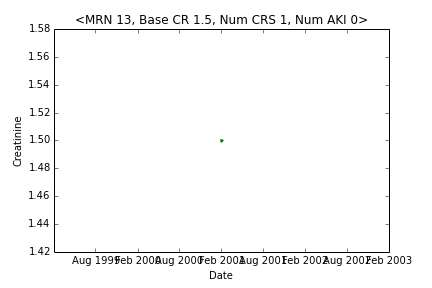
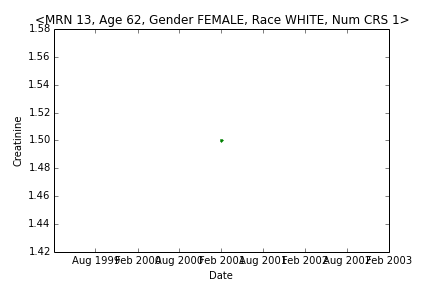
Add demographics and eGFR

Changed region(s): [[0.0903, 0.0312, 0.963, 0.0938]]

diff --git a/AKIPredictor.py b/AKIPredictor.py
@@ -1,69 +1,15 @@
 # -*- coding: utf-8 -*-
 """@author: Sami Safadi"""
 
-from pandas import Series, DataFrame
+from patient import Patient
 import matplotlib.pyplot as plt
 import pandas as pd
 import numpy as np
 import glob
 
+demDict = pd.DataFrame()
 ptDict = {} # Dictionary containing all lab values
 Patients = {} # Dictonary, keys are MRN, values are Patient objects
-
-class Patient(object):
-    def __init__(self, mrn: int, data: dict = dict()):
-        self.mrn = mrn
-        self.data = DataFrame(Series(data), columns=['value'])
-        self.data.index = pd.to_datetime(self.data.index)
-        self.crs = self.data.value
-        self.baseCr = self.__calcBaseCr__()
-        self.data['order'] = range(len(data))
-        self.data['slope'] = self.__calcSlopes__()
-        self.data['peak'] = self.__calcPeaks__()
-        self.data['aki'] = self.__calcAKI__()
-        self.aki = self.data.value[self.data.aki]
- 
-    def __str__(self): 
-        temp = "<MRN {}, Base CR {}, Num CRS {}, Num AKI {}>"\
-            .format(self.mrn, self.baseCr, len(self.crs), sum(self.data.aki))
-        return temp
-
-    def __repr__(self): return self.__str__()
-    
-    def __calcBaseCr__(self):
-        return np.percentile(self.crs, 25)
-    
-    def __calcSlopes__(self):
-        slopes = []
-        for i in range(len(self.crs)-1):
-            x1, x2 = self.data.order[i], self.data.order[i+1]
-            y1, y2 = self.data.value[i], self.data.value[i+1]
-            slopes.append((y2-y1)/(x2-x1))
-        # assign slope after last point to the preceding slope
-        if len(slopes) == 0: slopes.append(0) 
-        else: slopes.append(slopes[len(slopes) - 1])
-        return slopes
-        
-    def __calcPeaks__(self):
-        # first point is a peak if following slope is negative
-        peaks = [self.data.slope[0] <= 0] 
-        for i in range(1, len(self.crs)):
-            if self.data.slope[i-1] > 0 and self.data.slope[i] <= 0: 
-                peaks.append(True)
-            else: peaks.append(False)
-        return peaks
-    
-    def __calcAKI__(self):
-        return (self.data.value > self.baseCr * 1.5) & self.data.peak
-                               
-    def plot(self):
-        plt.hlines(self.baseCr, self.data.index.min(), self.data.index.max(), linestyles='dotted')
-        plt.plot(self.data.index, self.data.value)        
-        plt.plot(self.data.index, self.data.value, 'g.')
-        plt.plot(self.data.index[self.data.aki], self.data.value[self.data.aki], 'ro')
-        plt.title(str(self))
-        plt.xlabel("Date")
-        plt.ylabel("Creatinine")
         
 def getNumPatients():
     return len(Patients)
@@ -71,7 +17,7 @@ def getNumPatients():
 def getNumCrs():
     return sum([Patients[p].crs.size for p in Patients])
      
-def createPtDict(df: DataFrame):
+def createPtDict(df: pd.DataFrame):
     global ptDict 
     uniqueMRN = np.unique(df.ix[:, 0])
     for i in uniqueMRN: 
@@ -89,7 +35,13 @@ def createPts(patients: dict):
     for key in patients:
         crs = patients[key]
         mrn = key
-        if len(crs) > 0: Patients[mrn] = Patient(mrn=mrn, data=crs)
+        age, gender, race = 0, 0, 0
+        if any(demDict.MRN == 20):
+            index = demDict.index[demDict.MRN == key][0]
+            age = demDict.Age[index]
+            gender = demDict.Gender[index]
+            race = demDict.Race[index]
+        if len(crs) > 0: Patients[mrn] = Patient(mrn, crs, age, gender, race)
 
 def getPlots(keys: list, savetofile = False):
     global Patients
@@ -114,23 +66,28 @@ def getAKIDates(keys: list, savetofile = False):
 
 def getNumAKI(keys: list, savetofile = False):
     global Patients
-    mrn, aki, baseCr = [], [], []
+    mrn, aki, baseCr, egfr = [], [], [], []
     for key in keys:
         mrn.append(Patients[key].mrn)
         aki.append(Patients[key].aki.size)
         baseCr.append(Patients[key].baseCr)
-    di = {'MRN': mrn, 'baseCr': baseCr, 'numAKI': aki}
-    df = DataFrame(di)
+        egfr.append(Patients[key].egfr)
+    di = {'MRN': mrn, 'baseCr': baseCr, 'numAKI': aki, 'eGFR' : egfr}
+    df = pd.DataFrame(di)
     df['anyAKI'] = df.numAKI > 0
     outputfile = "Output/aki.csv"
-    if savetofile: df.to_csv(outputfile)
+    if savetofile: df.to_csv(outputfile, index = False)
     else: print(df)
-    
-def read(files:[str]):
-    global Patients
-    for file in files: createPtDict(pd.read_csv(file))
-    createPts(ptDict)
 
+def readDemographics(file: str):
+    global demDict
+    demDict = pd.read_csv(file)
+        
+def readLabs(files:[str]):
+    for file in files: 
+        createPtDict(pd.read_csv(file))
+    createPts(ptDict)
+    
 def write():
     global Patients
     getNumAKI(Patients.keys(), savetofile = True)
@@ -138,9 +95,13 @@ def write():
     getPlots(Patients.keys(), savetofile = True)
     
 if __name__ == "__main__":
-    files = glob.glob("Input/*.csv")
-    print("The following files are proccessed: ", files)
-    read(files)
+    demographicsFile = "Input/Demographics.csv"
+    readDemographics(demographicsFile)
+    
+    labFiles = glob.glob("Input/Labs*.csv")
+    print("The following files are proccessed: ", labFiles)
+    readLabs(labFiles)
+    
     message = "Processed {} patients, and {} laboratory values"\
         .format(getNumPatients(), getNumCrs(),)
     print(message)

diff --git a/patient.py b/patient.py
@@ -1,0 +1,70 @@
+# -*- coding: utf-8 -*-
+"""@author: Sami Safadi"""
+
+from eGFR import ckdepi
+from pandas import Series, DataFrame
+import matplotlib.pyplot as plt
+import pandas as pd
+import numpy as np
+
+class Patient(object):
+    def __init__(self, mrn, data = {}, age = 0, gender = 0, race = 0):
+        self.mrn = mrn
+        self.data = DataFrame(Series(data), columns=['value'])
+        self.data.index = pd.to_datetime(self.data.index)
+        self.crs = self.data.value
+        self.age = age
+        self.gender = gender
+        self.race = race
+        if self.crs.size > 0: self.initialize()
+        
+    def initialize(self):
+        self.baseCr = self.__calcBaseCr__()
+        self.egfr = ckdepi(self.baseCr, self.age, self.gender, self.race)
+        self.data['order'] = range(self.crs.size)
+        self.data['slope'] = self.__calcSlopes__()
+        self.data['peak'] = self.__calcPeaks__()
+        self.data['aki'] = self.__calcAKI__()
+        self.aki = self.data.value[self.data.aki]
+        
+    def __str__(self): 
+        temp = "<MRN {}, Age {}, Gender {}, Race {}, Num CRS {}>"\
+            .format(self.mrn, self.age, self.gender, self.race, self.crs.size)
+        return temp
+
+    def __repr__(self): return self.__str__()
+    
+    def __calcBaseCr__(self):
+        return np.percentile(self.crs, 25)
+    
+    def __calcSlopes__(self):
+        slopes = []
+        for i in range(len(self.crs)-1):
+            x1, x2 = self.data.order[i], self.data.order[i+1]
+            y1, y2 = self.data.value[i], self.data.value[i+1]
+            slopes.append((y2-y1)/(x2-x1))
+        # assign slope after last point to the preceding slope
+        if len(slopes) == 0: slopes.append(0) 
+        else: slopes.append(slopes[len(slopes) - 1])
+        return slopes
+        
+    def __calcPeaks__(self):
+        # first point is a peak if following slope is negative
+        peaks = [self.data.slope[0] <= 0] 
+        for i in range(1, len(self.crs)):
+            if self.data.slope[i-1] > 0 and self.data.slope[i] <= 0: 
+                peaks.append(True)
+            else: peaks.append(False)
+        return peaks
+    
+    def __calcAKI__(self):
+        return (self.data.value > self.baseCr * 1.5) & self.data.peak
+                               
+    def plot(self):
+        plt.hlines(self.baseCr, self.data.index.min(), self.data.index.max(), linestyles='dotted')
+        plt.plot(self.data.index, self.data.value)        
+        plt.plot(self.data.index, self.data.value, 'g.')
+        plt.plot(self.data.index[self.data.aki], self.data.value[self.data.aki], 'ro')
+        plt.title(str(self))
+        plt.xlabel("Date")
+        plt.ylabel("Creatinine")

diff --git a/eGFR.py b/eGFR.py
@@ -9,13 +9,13 @@ def ckdepi(cr, age, gender, race):
     α is -0.329 for females and -0.411 for males,  
     g is 1.018 for females and 1 for males,
     r is 1.159 for blacks and 1 for other races
-    """
-    if gender == "MALE" or gender == 1: k, a, g = 0.9, -0.411, 1
+    """    
+    if gender == "MALE" or gender == 1: k, a, g = 0.9, -0.411, 1.0
     elif gender == "FEMALE" or gender == 2: k, a, g = 0.7, -0.329, 1.018
     else: raise Exception("equation undefined for gender:", gender)
     
-    if race == "BLACK" or race == 0: r = 1.159
-    else: r = 1
+    r = 1.0
+    if race == "BLACK" or race == "AA" or race == 1: r = 1.159
 
     egfr = 141 * min(cr/k, 1)**a * max(cr/k, 1)**(-1.209) * 0.993**age * g * r
     return egfr
@@ -27,15 +27,15 @@ def test():
     
     print("\n40 year old black male with cr 1.5")
     print("CKD-EPI")
-    print("Expect: 66.4 ml/min. Actual:", ckdepi(1.5, 40, 1, 0))
+    print("Expect: 66.4 ml/min. Actual:", ckdepi(1.5, 40, 1, 2))
     
-    print("\n80 year old white femle with cr 2.0")
+    print("\n80 year old white female with cr 2.0")
     print("CKD-EPI")
     print("Expect: 23.1 ml/min. Actual:", ckdepi(2, 80, 2, 1))
     
-    print("\n50 year old black femle with cr 1.1")
+    print("\n50 year old black female with cr 1.1")
     print("CKD-EPI")
-    print("Expect: 67.6 ml/min. Actual:", ckdepi(1.1, 50, 2, 0))
+    print("Expect: 67.6 ml/min. Actual:", ckdepi(1.1, 50, 2, 2))
 
 if __name__ == "__main__":
     print("Some tests...")
